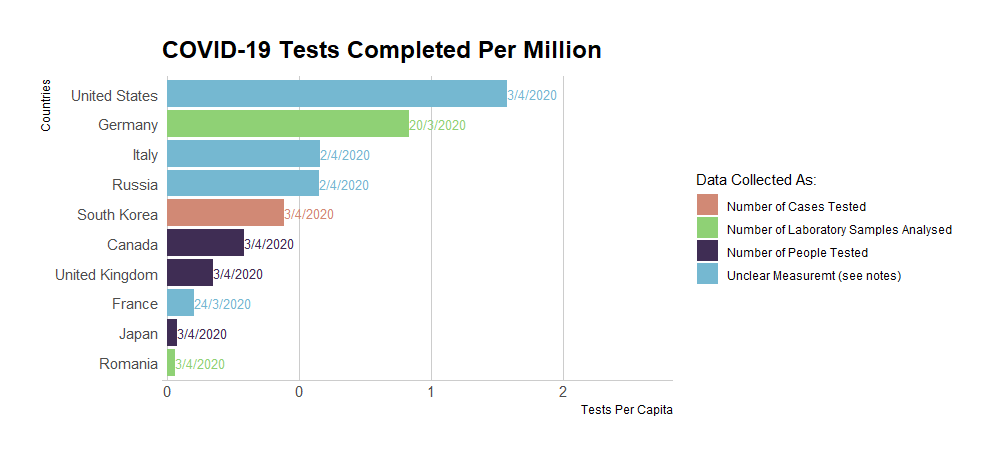
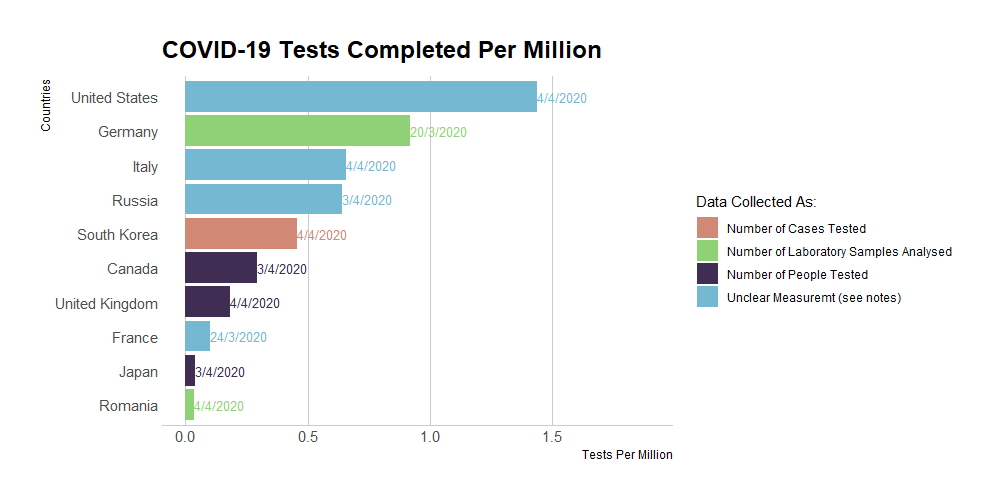
Updated Grpahs and Readme

diff --git a/README.md b/README.md
@@ -1,6 +1,6 @@
 # CovidTests
 ![Tests Per Million](https://github.com/tomsaunders98/CovidTests/raw/master/img/PerMillionBar.png "Tests Per Million")
-![Tests Per Million](https://github.com/tomsaunders98/CovidTests/raw/master/img/TestsPerCapitaBar.png "Tests Per Capita")
+![Tests Per Million](https://github.com/tomsaunders98/CovidTests/raw/master/img/PerCapitaBar.png "Tests Per Capita")
 (See *Explaning the Data* for information on different data types.)
 
 This is a **work in progress** to monitor the number of Covid-19 Tests performed by various countries.
@@ -10,7 +10,7 @@ This is a **work in progress** to monitor the number of Covid-19 Tests performed
 The number of Coronavirus tests performed is an important metric of each country's effort to combat the spread of Coronavirus. However, the data on the number of tests completed is often unclear, inconsistent or entirely non-existent. 
 For example, Spain has so far released no official data on the number of tests it has performed, despite the fact that regions within Spain are [obliged to provide the government with daily reports on the number of tests completed](https://maldita.es/malditodato/2020/03/23/350000-tests-pruebas-diagnostico-coronavirus-gobierno-hecho-realmente-cambios-criterio/).
 
-On the other hand, Germany and France release their data at extremely irregular intervals. France last officially released data for 24th of March, Germany hasn't released data since the 20th.
+On the other hand, Germany and France release their data at extremely irregular intervals. France last officially released data for 24th of March, Germany hasn't released their data since the 20th of March.
 
 Countries are often not clear on exactly what they are measuring when they release the number of tests and  whether this data includes all private tests performed in the country as well.
 I have tried to make the data as transparent as possible by including what type of measurement has been used where it is known. There are 3 common types of measurements:
@@ -19,7 +19,7 @@ I have tried to make the data as transparent as possible by including what type 
 2. **People**: The number of people tested. Even if someone is tested multiple tests it will still only be counted once.
 3. **Cases**: The number of cases tested. If one person gets Coronavirus and receives multiple tests it will only be counted once. However, if he gets the virus again it will be counted seperately. 
 
-Whilst this does make it difficult to compare different country's testing efforts it can still be informative as long as the caveats in the data are understood. 
+Whilst this does make it difficult to compare different country's testing efforts it is still informative as long as the caveats in the data are understood. 
 
 
 ## Sources
@@ -53,7 +53,7 @@ Whilst this does make it difficult to compare different country's testing effort
 
 
 ## Notes
-* Australia does not seem to update their results properly. Their government [website](https://www.health.gov.au/news/health-alerts/novel-coronavirus-2019-ncov-health-alert/coronavirus-covid-19-current-situation-and-case-numbers) displays an out of date total. All of the following Australian states have up to date trackers:
+* Australia does not seem to update their results regularly. Their government [website](https://www.health.gov.au/news/health-alerts/novel-coronavirus-2019-ncov-health-alert/coronavirus-covid-19-current-situation-and-case-numbers) displays an out of date total. All of the following Australian states have up to date trackers:
 	* [New South Wales](https://www.health.nsw.gov.au/news/Pages/20200329_01.aspx)
 	* [Queensland](https://www.qld.gov.au/health/conditions/health-alerts/coronavirus-covid-19/current-status/current-status-and-contact-tracing-alerts)
 	* [Western Australia](https://ww2.health.wa.gov.au/Articles/A_E/Coronavirus/COVID19-statistics)
@@ -75,5 +75,5 @@ Whilst this does make it difficult to compare different country's testing effort
 * Testnumbers.csv (collated data)
 * Testsviz.r (visualisation in R)
 
-## Help me out
+## Share Your Thoughts
 I'm on twitter at [@tomandthenews](https://twitter.com/tomandthenews). If you have any questions/suggestions please let me know! 
